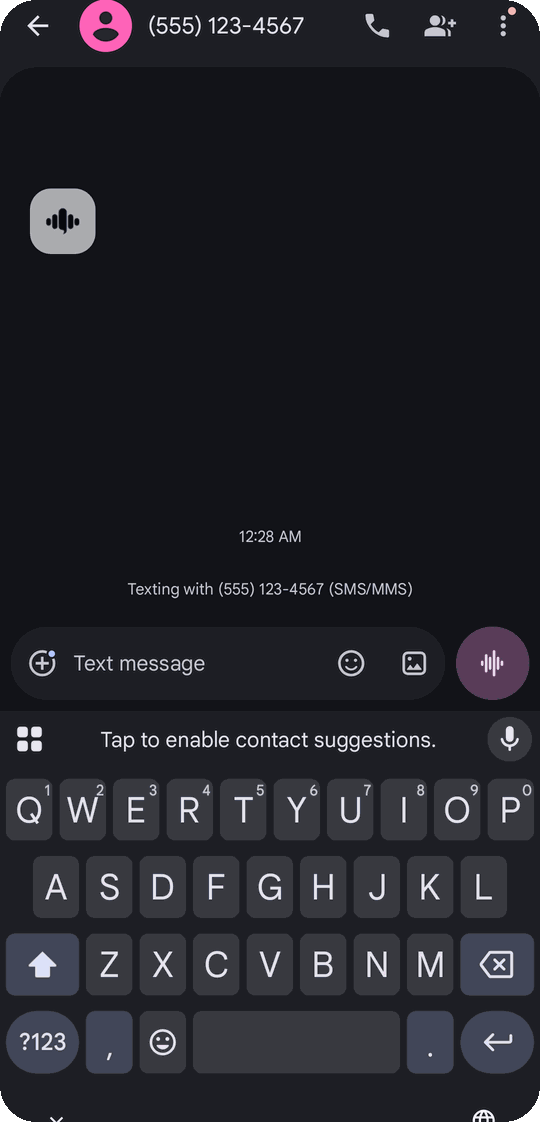
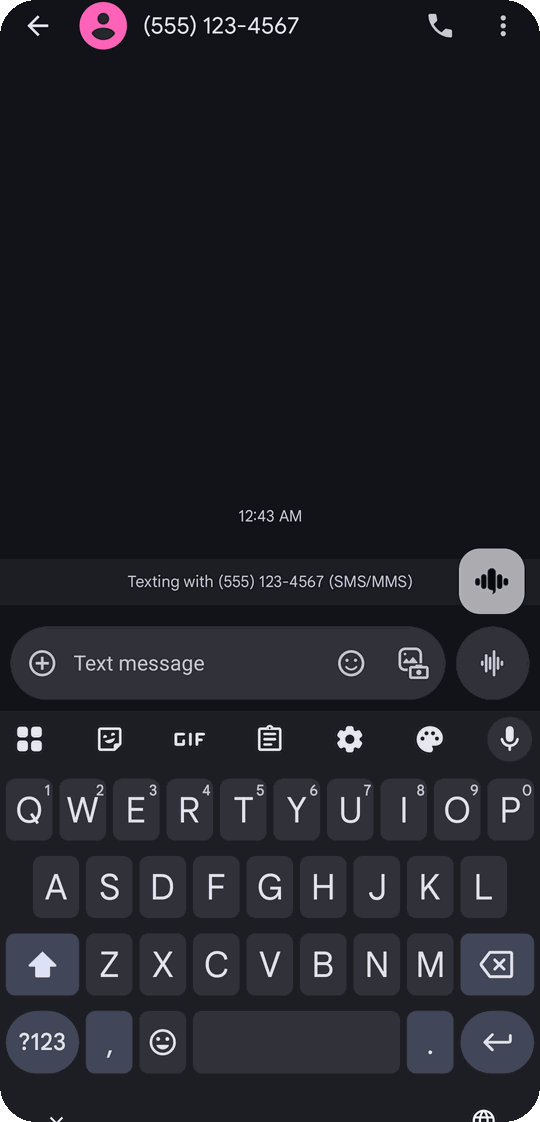
docs: show floating button above the keyboard
Recapture the ready and listening states with the button resting at the
right edge just above the keyboard, where it sits in everyday use.

diff --git a/README.md b/README.md
@@ -19,12 +19,12 @@ faded, locked, or snoozed.
 <table>
   <tr>
     <td align="center" width="50%">
-      <img src="docs/screenshots/pill-ready.png" alt="Floating button ready next to a Messages text field" width="270" /><br />
-      <sub><b>Ready</b> — appears when a text field has focus</sub>
+      <img src="docs/screenshots/pill-ready.png" alt="Floating button resting above the keyboard in Messages" width="270" /><br />
+      <sub><b>Ready</b> — rests just above the keyboard</sub>
     </td>
     <td align="center" width="50%">
-      <img src="docs/screenshots/pill-recording.png" alt="Floating button expanded while recording, with confirm and cancel controls" width="270" /><br />
-      <sub><b>Listening</b> — ✓ inserts the text, ✕ cancels</sub>
+      <img src="docs/screenshots/pill-recording.png" alt="Floating button expanded while listening, with confirm and cancel controls" width="270" /><br />
+      <sub><b>Listening</b> — tap once to start; ✓ inserts, ✕ cancels</sub>
     </td>
   </tr>
 </table>
